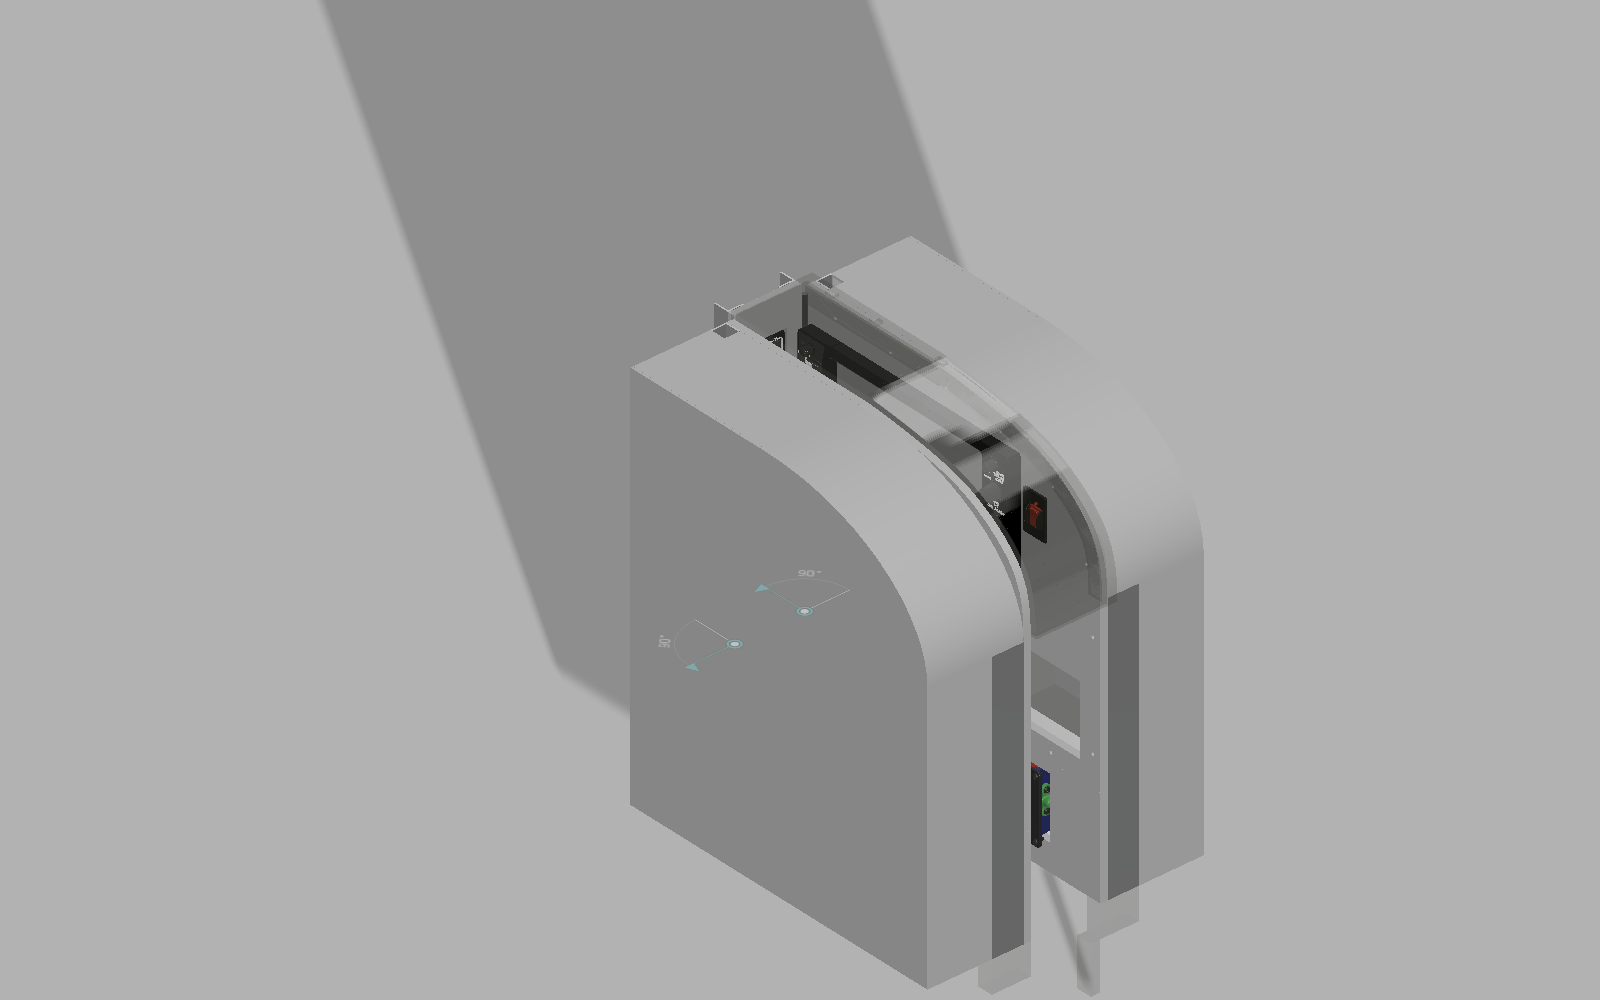
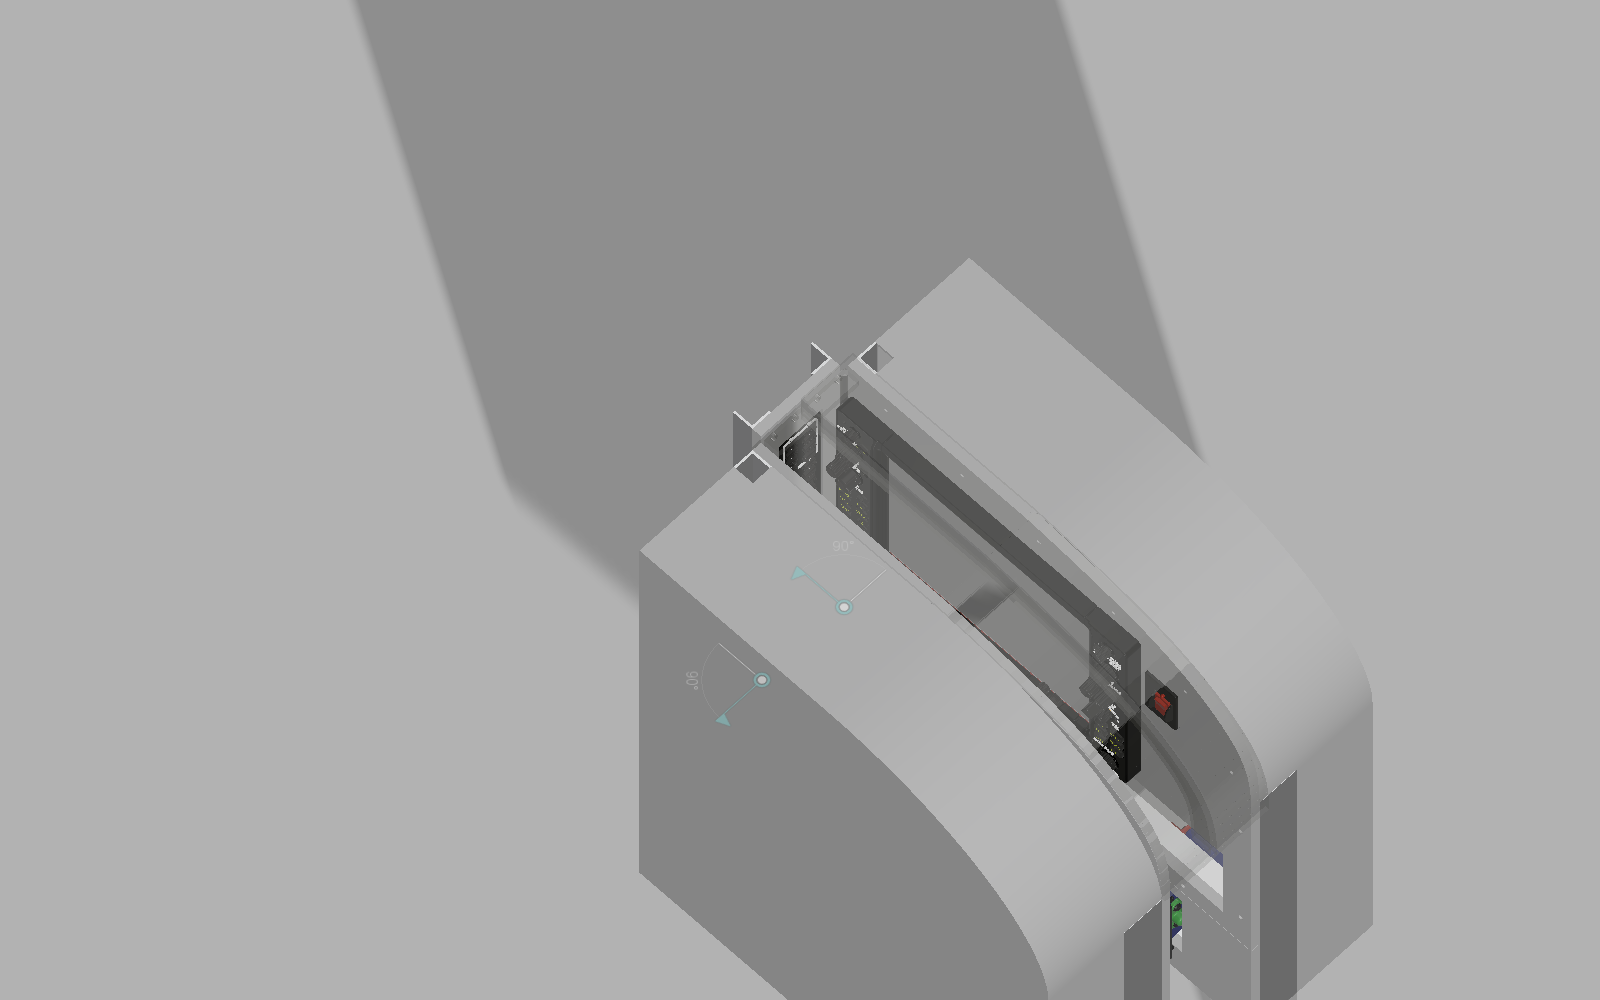
Glareshield v2: level left/right pieces meet mid-gap when folded, magnetic middle piece

Changed region(s): [[0.3125, 0.0, 0.875, 1.0], [0.1875, 0.0, 0.2812, 0.341], [0.2812, 0.341, 0.3125, 0.496]]

diff --git a/fusion/build_glareshield.py b/fusion/build_glareshield.py
@@ -1,11 +1,9 @@
-# Two-piece glareshield that doubles as the TOP closure of the folded case (runs after build_storage).
-# Each piece follows its half's top outline (straight run + the big outer corner curve, quarter ellipse
-# a236 b153 at z216) and overhangs 93 mm toward the pilot = the folded face gap. Both stay on their halves:
-#  - LEFT piece: plate y 3..93 (z 369..373), rear flange hugging the panel face (y 3..6) and a 20 mm brow at
-#    y 90..93. Folded, it spans the gap just under the right piece.
-#  - RIGHT piece: plate y -9..93 one layer up (z 373..377, on 4 mm standoffs over its panel's top edge), brow
-#    y 90..93 hanging 24 mm. Folded, its plate covers the left piece and its brow drops in just inside the
-#    left panel face, beside the left plate: the top and curved corners of the gap are closed.
+# Glareshield v2 (runs after build_storage): left + right pieces on the SAME plane (z 369..373), each following its
+# half's real top outline (sampled from his panel, incl. the big curved corners). Each covers its panel's top edge
+# and overhangs 46.5 mm = half the folded face gap, with a 20 mm brow, so when folded the two meet level in the
+# middle of the gap and close the top and curved corners. The right piece's curve is shifted 6 mm outward
+# because the left half is 6 mm wider (folded outlines differ by 6).
+# Middle piece over the spacer: deployed only, snaps between L and R on 6x3 mm magnets; stows in a rear tub.
 # Straight side + bottom of the gap: two 3 mm closure strips, stowed on the inside of the rear lids.
 # Units mm, frame as build_case_mip (X right, Y toward pilot, Z up, u = x + 460).
 import importlib.util
@@ -99,21 +97,33 @@ def build_glareshield():
 
     gap, t, brow = G['gap'], G['t'], G['brow']
     sh = 6.0     # folded, the left outline sits 6 mm further out than the right one (left half is 6 mm wider)
-    # left piece
-    L = band('Left half', t, 0.0, 3.0, gap)
-    op(L, band('Left half', 0.01, -brow, 3.0, 6.0), UNI)               # rear flange on the panel face
-    op(L, band('Left half', 0.01, -brow, gap - 3, gap), UNI)           # brow
-    # right piece, one layer up
-    R = band('Right half', 2 * t, t, -P['t_panel'], gap, sh)
-    op(R, band('Right half', t + 0.01, -brow, gap - 3, gap, sh), UNI)      # brow (24 mm below its plate)
-    for u in (r0 + 30, (r0 + r1 - 236.0) / 2, r1 - 236.0):                     # 4 mm standoffs on the panel top edge
-        op(R, box(X(u) - 6, X(u) + 6, -P['t_panel'] + 1, -1, zt, zt + t + 0.01), UNI)
+    ov = gap / 2.0          # each piece overhangs half the folded gap: closed, they meet in the middle, level
+    s0, s1 = uB + hg, uA - hg
+    # left / right pieces: same plane (z 369..373), plate over the panel top edge + 46.5 mm overhang, 20 mm brow
+    L = band('Left half', t, 0.0, -P['t_panel'], ov)
+    op(L, band('Left half', 0.01, -brow, ov - 3, ov), UNI)
+    R = band('Right half', t, 0.0, -P['t_panel'], ov, sh)
+    op(R, band('Right half', 0.01, -brow, ov - 3, ov, sh), UNI)
+    # middle piece over the spacer (deployed only): same section, snaps between L and R on magnets
+    M = box(X(l1), X(r0), -P['t_panel'], ov, zt, zt + t)
+    op(M, box(X(l1), X(r0), ov - 3, ov, zt - brow, zt), UNI)
+    # magnet blocks under the plate at the joints (2 x 6x3 mm magnets per face)
+    def mblock(u0, u1):
+        blk = box(X(u0), X(u1), 3.0, ov - 3, zt - 8, zt)
+        return blk
+    op(L, mblock(l1 - 15, l1), UNI); op(R, mblock(r0, r0 + 15), UNI)
+    op(M, mblock(l1, l1 + 15), UNI); op(M, mblock(r0 - 15, r0), UNI)
+    for (bd, ue, sgn) in ((L, l1, -1), (R, r0, 1), (M, l1, 1), (M, r0, -1)):
+        for yy in (12.0, ov - 12):
+            mag = tbm.createCylinderOrCone(F(X(ue), yy, zt - 4), 0.31, F(X(ue) + sgn * 3.2, yy, zt - 4), 0.31)
+            op(bd, mag, SUB)
 
     tp = P['t_panel']; back = 130.0
     items = {
+        'Spacer': [('PRINT glareshield middle (magnetic, deployed only)', M)],
         'Left half': [('PRINT glareshield L (top closure)', L),
                       ('PANEL bottom closure strip 3 mm (stowed on lid)', box(X(4), X(424), -back + 3, -back + 6, -118, -118 + gap))],
-        'Right half': [('PRINT glareshield R (top closure, nests over L)', R),
+        'Right half': [('PRINT glareshield R (top closure)', R),
                        ('PANEL side closure strip 3 mm (stowed on lid)', box(X(800), X(800 + gap), -back + 3, -back + 6, -120, 221))],
     }
     for h, its in items.items():
@@ -122,7 +132,7 @@ def build_glareshield():
         for nm, bd in its:
             nb = comp.bRepBodies.add(bd, bf); nb.name = nm
         bf.finishEdit()
-    print('glareshield: L plate y 3..93 z 369..373, R plate y -9..93 z 373..377; closure strips stowed')
+    print('glareshield v2: L/R level, overhang %.1f each, middle piece on spacer; closure strips stowed' % ov)
 
 
 def run(_context: str):
